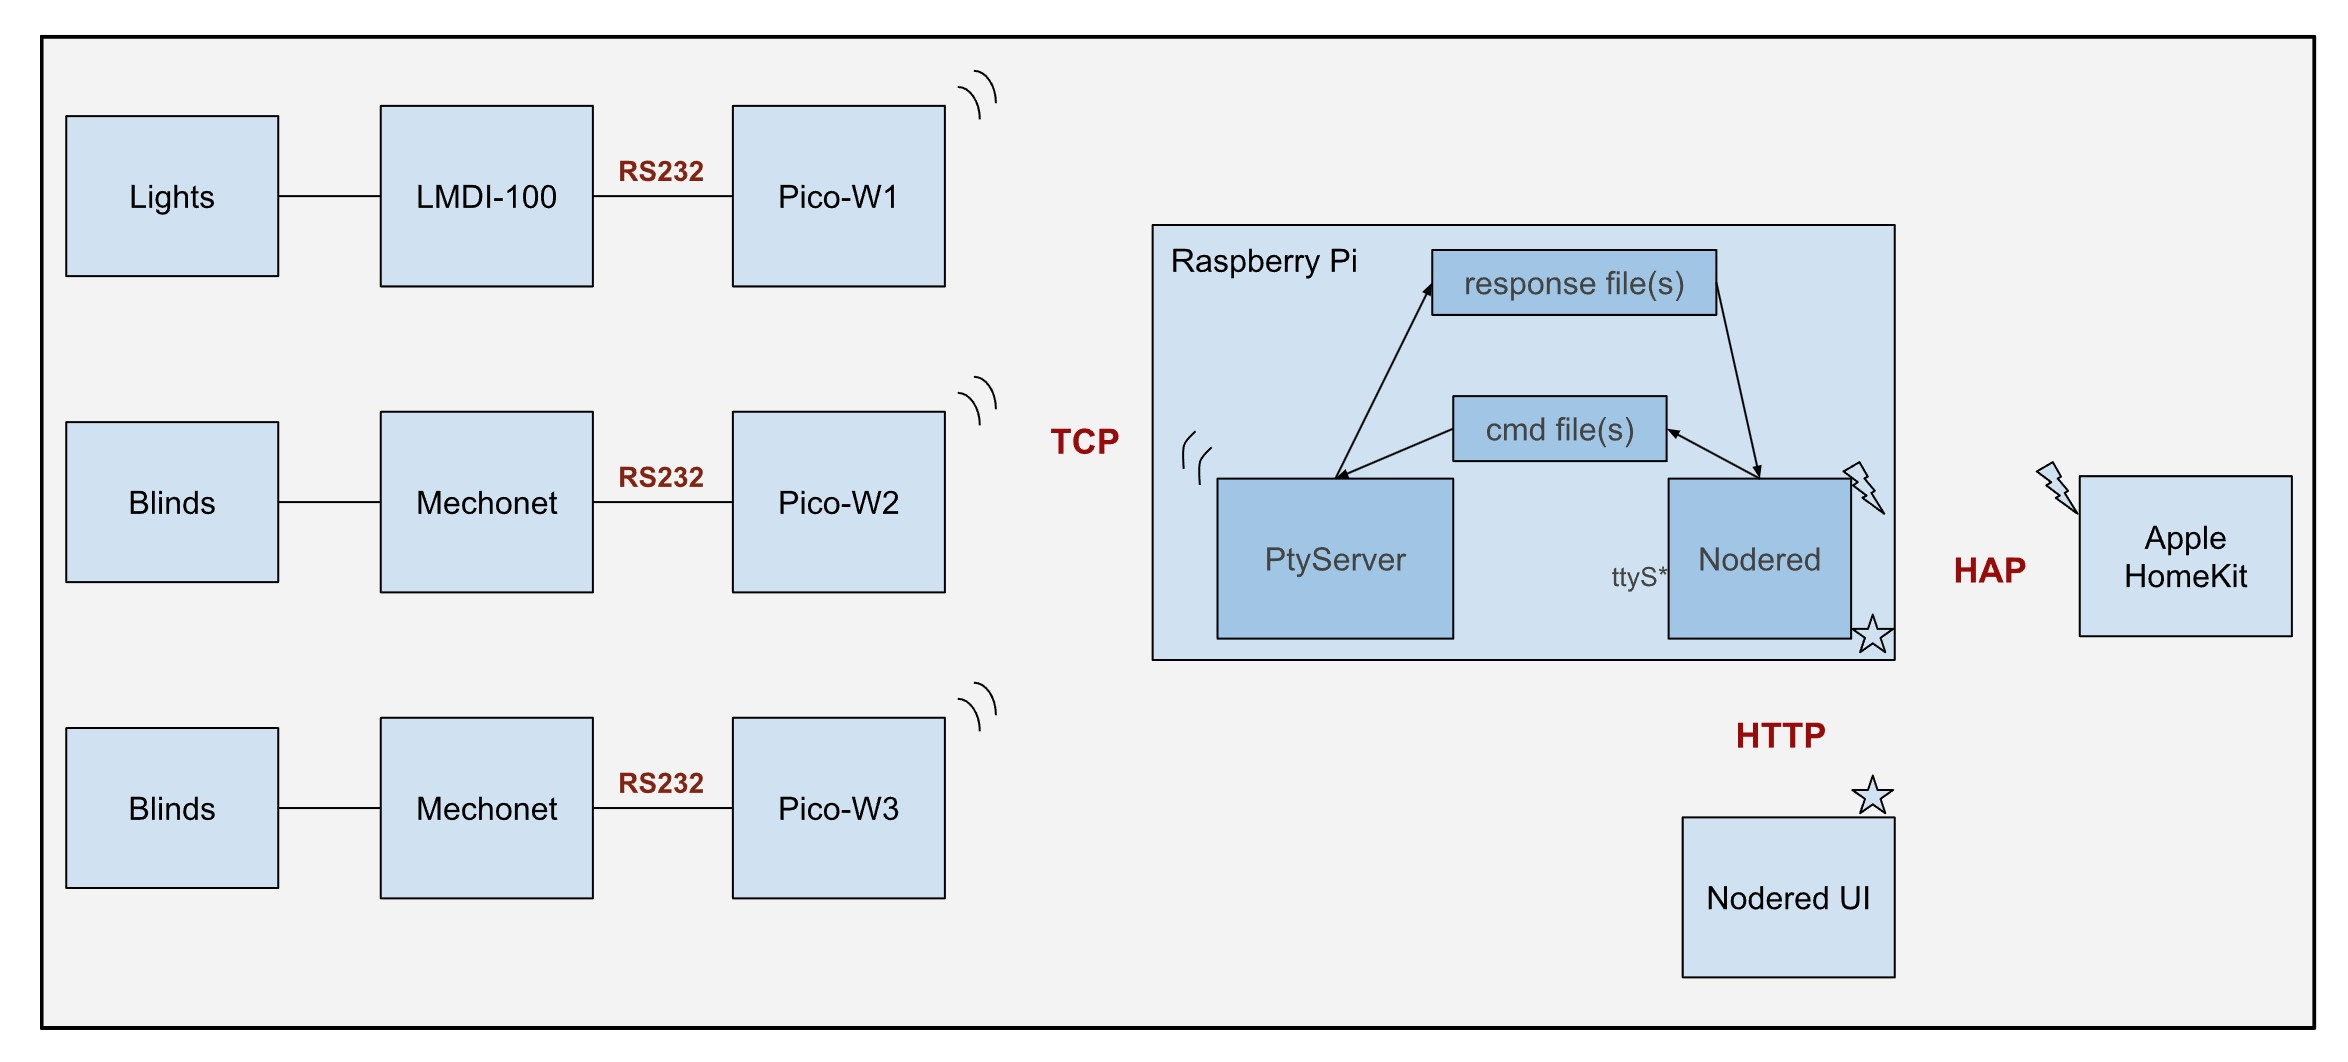
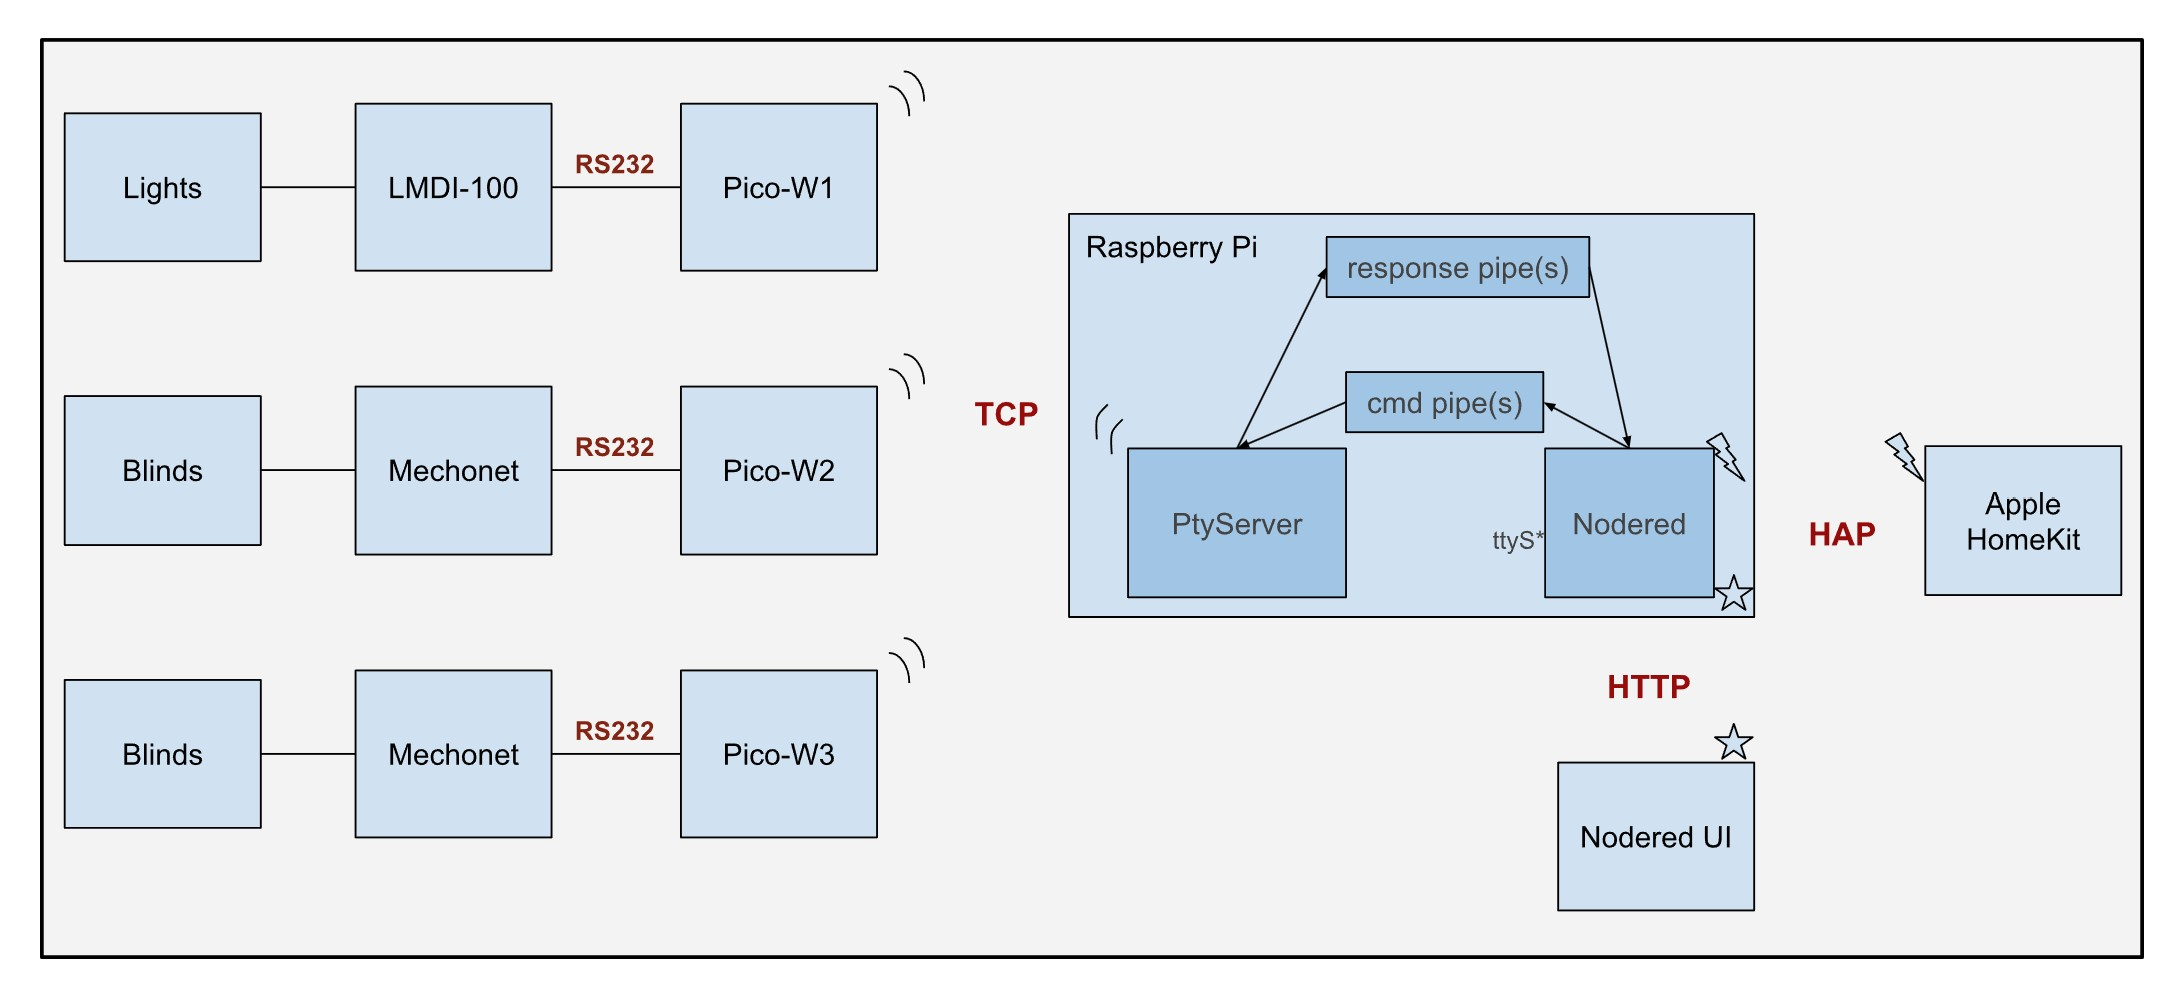
updated readme and block diagram

diff --git a/README.md b/README.md
@@ -2,13 +2,13 @@
 This repository contains a Node-RED flow designed to interface with digital light control and window shading control systems using a Raspberry Pi and Pico-W. It includes both Apple HomeKit and Nodered-UI features, allowing you to control your smart home directly from your iOS or Android device. It is a better alternative to the [homebridge-tcp-smarthome](https://github.com/RajkumarGara/homebridge-tcp-smarthome) project.
 
 ## Working procedure
-Running Node-RED with [SmartHome.json](./SmartHome.json) flow on a Raspberry Pi sets the system ready to send light on/off commands suitable for LMDI-100 devices, and window covering commands compatible with Mechonet. Whenever an accessory in Apple HomeKit or Nodered-UI is operated, it triggers a command from Node-RED to write to a corresponding command file. These command files and response files are created by the [PtyServer](https://github.com/RajkumarGara/pico-network-serial-port/blob/main/src/PtyServer.js) when each Pico-W connects to PtyServer. Commands written to the command file are sent to the Pico-W by the PicoFileServer through TCP. Subsequently, the [Pico-W](https://github.com/RajkumarGara/pico-network-serial-port/blob/main/src/PicoSerialClient.py) relays these commands to connected devices through RS232. The [`LMDI-100`](./docs/LMDI_Serial_Protocol.pdf) and [`Mechonet`](./docs/Mecho_Shade_Serial_Protocol.pdf) take input through RS232 to control digital lights or window blinds. Response from the Pico-W is written to the corresponding response file by PicoFileServer. Nodered SmartHome.json flow always watches any data on response files and sends it to the debug node to view the data. This setup simplifies the management of multiple loads across an entire floor or building by deploying multiple Pico-W units in each room connected to the same WiFi network as the Raspberry Pi, allowing for centralized control. Additionally, it will also send commands to devices connected to the serial interface via the serial port of the Raspberry Pi.
+Running Node-RED with [SmartHome.json](./SmartHome.json) flow on a Raspberry Pi sets the system ready to send light on/off commands suitable for LMDI-100 devices, and window covering commands compatible with Mechonet. Whenever an accessory in Apple HomeKit or Nodered-UI is operated, it triggers a command from Node-RED to write to a corresponding command pipe. These command pipes and response pipes are created by the [PtyServer](https://github.com/RajkumarGara/pico-network-serial-port/blob/main/src/PtyServer.js) when each Pico-W connects to PtyServer. Commands written to the command pipe are sent to the Pico-W by the PtyServer through TCP. Subsequently, the [Pico-W](https://github.com/RajkumarGara/pico-network-serial-port/blob/main/src/PicoSerialClient.py) relays these commands to connected devices through RS232. The [`LMDI-100`](./docs/LMDI_Serial_Protocol.pdf) or [`Mechonet`](./docs/Mecho_Shade_Serial_Protocol.pdf) take input through RS232 to control digital lights or window blinds. Response from the Pico-W is written to the corresponding response pipe by PtyServer. Nodered SmartHome.json flow always watches for data on response pipes and sends it to the debug node to view the data. This setup simplifies the management of multiple loads across an entire floor or building by deploying multiple Pico-W units in each room connected to the same WiFi network as the Raspberry Pi, allowing for centralized control. Additionally, it will also send commands to devices connected to the serial interface via the serial port of the Raspberry Pi.
 
 ## Features
 1. Accessories can be operated through either Apple HomeKit or Nodered-UI.
 2. It supports light and window covering accessories.
 3. Number of accessories can be configured. (Refer [`Configure accessories`](#Configure-Accessories) section).
-4. It sends LMDI-100, Mechonet commands to the Pico-W through the command file.
+4. It sends LMDI-100, Mechonet commands to the Pico-W through command pipe and records their response to response pipe.
 5. Individual and all lights on/off.
 6. Individual light brightness control from 0 to 100%.
 7. All window blinds 5-level (0%, 25%, 50%, 75%, 100%) covering.
@@ -40,14 +40,14 @@ Running Node-RED with [SmartHome.json](./SmartHome.json) flow on a Raspberry Pi 
 * Add the accessory on your Apple device.
 
 ## Developer Notes
-* Instead of using [`SmartHome.json`](./SmartHome.json) to send commands through the serial port and command files, you can utilize [`TcpSmartHome.json`](./extras/TcpSmartHome.json) to communicate commands from the Raspberry-Pi to the Pico-W via TCP as shown below.
+* Instead of using [`SmartHome.json`](./SmartHome.json) to send commands through the serial port and command pipes, you can utilize [`TcpSmartHome.json`](./extras/TcpSmartHome.json) to communicate commands from the Raspberry-Pi to the Pico-W via TCP as shown below.
     ![TcpSmartHome control flow](img/7.jpg)
 
 ## Visual Overview
 * This block diagram describes the complete project.
     ![Block diagram](img/1.jpg)
 
-* Below screenshot shows the main control flow (sending commands through serial port as well as command file).
+* Below screenshot shows the main control flow (Sending commands through serial port as well as command pipe. Displaying Pico-W response in debug window).
     ![Main control flow](img/2.jpg)
 
 * This screenshot displays the window blinds control buttons within the Node-RED flow. The following one illustrates the same buttons within the Node-RED UI.
